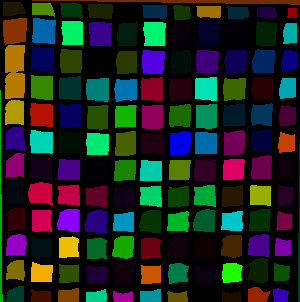
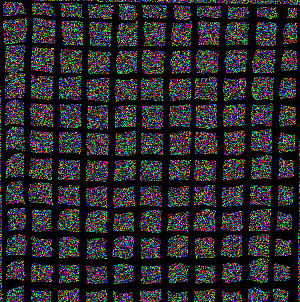
limitless region id w/Queue

diff --git a/impIMG.py b/impIMG.py
@@ -32,10 +32,34 @@ def HellDriver(im):
 		for y in range(0,im.shape[1]):
 			if im[x,y] != 0:
 				hits = []
-				recursionHell(x,y,im,hits)
+				queue = []
+				recursionHell(x,y,im,hits,queue)
 				hitlist.append(hits)
 
 	return(hitlist)
+
+def endlessDriver(im):
+	hitlist = []	
+	for x in range(0,im.shape[0]):
+		for y in range(0,im.shape[1]):
+			hits = []
+			q = [[x,y]]
+			for coords in q:
+				endlessHell(coords[0],coords[1],im,hits,q)
+			if hits: hitlist.append(hits)
+
+	return(hitlist)
+
+def endlessHell(xi,yi,im,hits,queue):
+	if xi < 0 or yi < 0 or xi == im.shape[0] or yi == im.shape[1]:
+		return
+	if im[xi,yi] == 0:
+		return
+	hits.append([xi,yi])
+	im[xi,yi] = 0
+	for xm,ym in [[0,-1],[0,1],[1,0],[-1,0]]:
+		queue.append([xi+xm,yi+ym])
+
 
 def recursionHell(xi,yi,im,hits):
 
@@ -99,8 +123,8 @@ class swampland:
 			self.imOUT[pix[0],pix[1]][2] = val
 
 
-	def write(self):
-		cv2.imwrite('hodor.png',cv2.cvtColor(self.imOUT,cv2.COLOR_HSV2BGR))
+	def write(self,fn):
+		cv2.imwrite(fn,cv2.cvtColor(self.imOUT,cv2.COLOR_HSV2BGR))
 
 	def hsvPaintIT(self):
 		for i in range(0,len(self.coordsets)):
@@ -111,7 +135,8 @@ class swampland:
 def initObj(fn):
 	# sys.setrecursionlimit(40000)
 	im = imin(fn)
-	patches = HellDriver(im)
+	patches = endlessDriver(im)
+	# patches = HellDriver(im)
 	pim = paint_it(patches,im)
 	# show(pim)
 	# cv2.imwrite('coloredin.png',pim)
@@ -119,15 +144,15 @@ def initObj(fn):
 	hpim = cv2.cvtColor(cpim,cv2.COLOR_BGR2HSV)
 	# cv2.imwrite('hsvim.png',cpim)
 	swamptreats = swampland(patches,hpim)
-	swamptreats.write()
+	swamptreats.write('powa.png')
 	return(swamptreats)
 
 if __name__ == '__main__':
-	swampy = initObj('grid.png')
+	swampy = initObj('flowa.jpg')
 	i = 0
 	while True:
 		for i in range(0,swampy.getLen()):
 			swampy.modVAL(i,random.randint(0,255))
-		swampy.write()
+		swampy.write('powa.png')
 		time.sleep(1)
 
